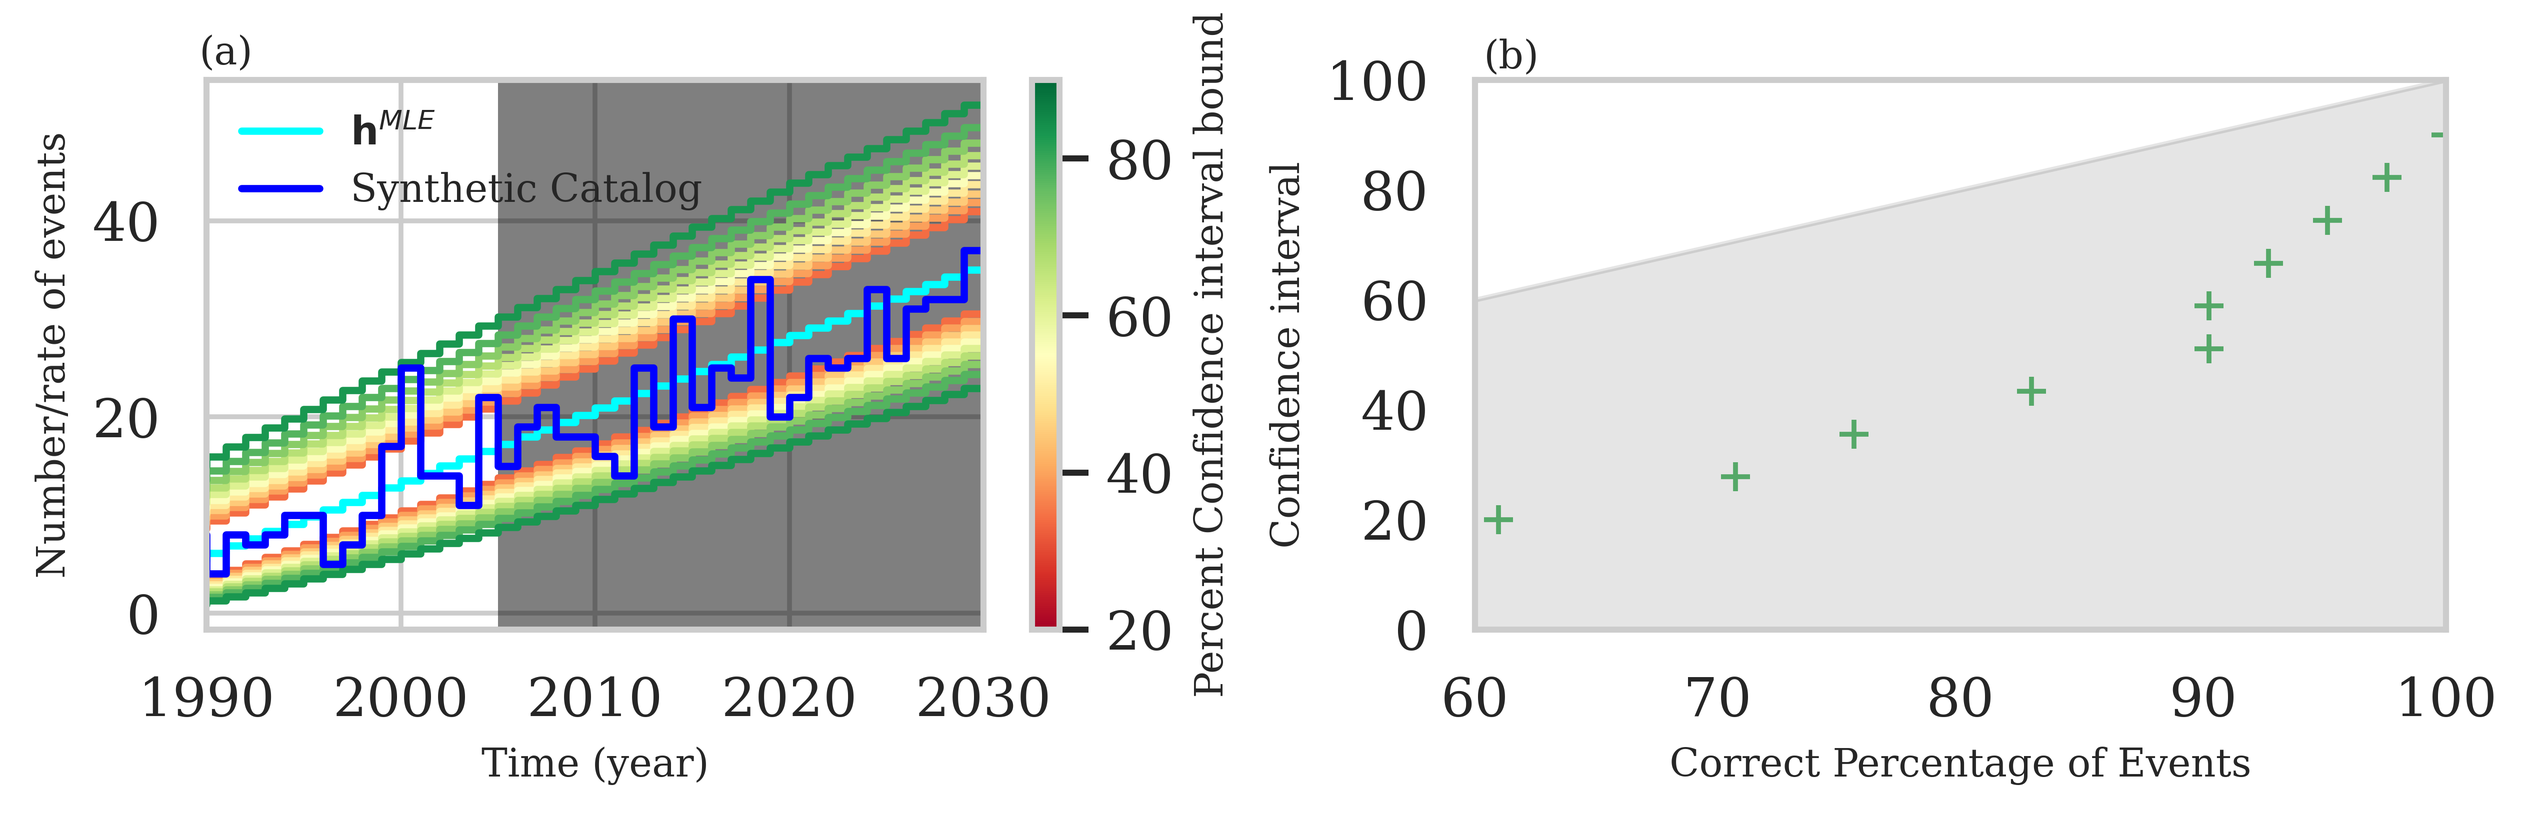
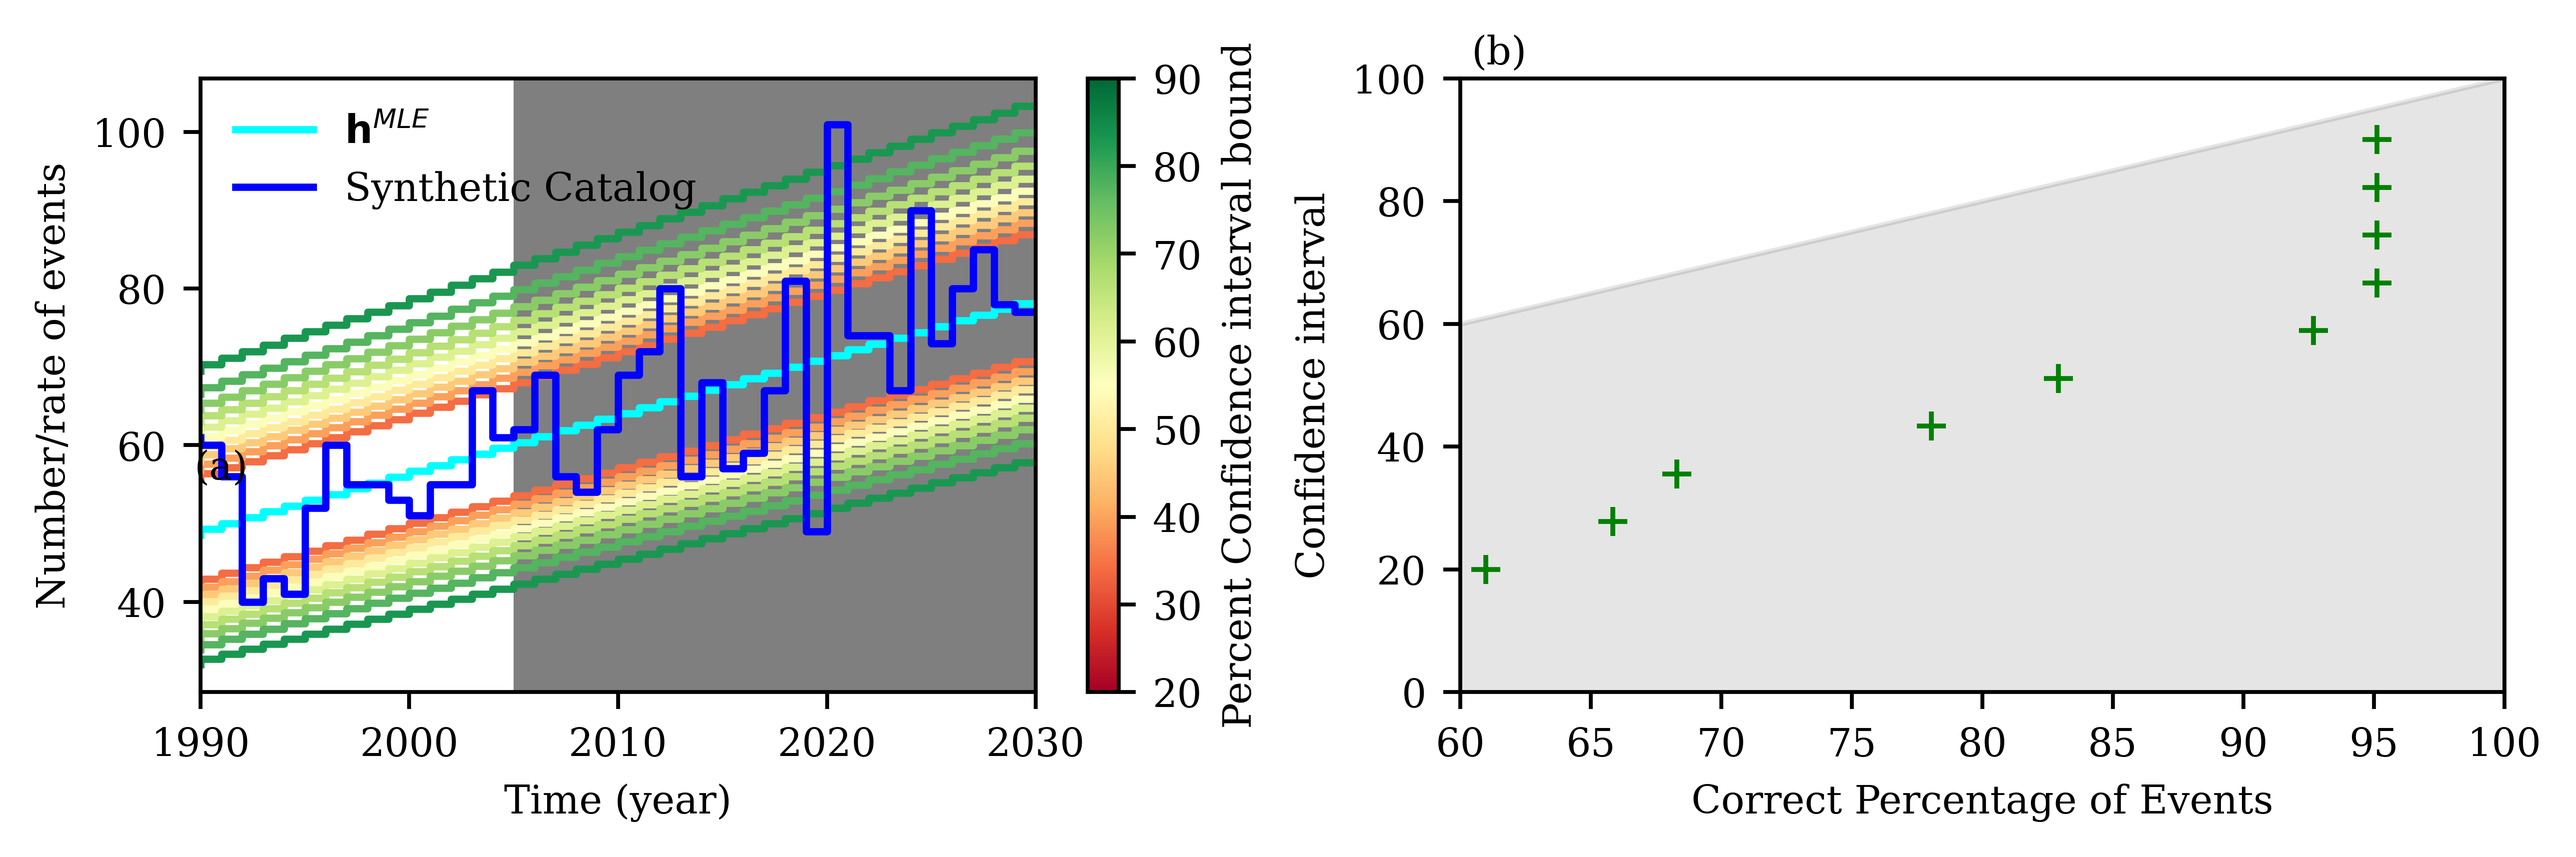
Sync

diff --git a/Example2.py b/Example2.py
@@ -32,7 +32,7 @@ N_train=15 # Number of years to be considered in the training set
 Timevector=np.linspace(Tmin,Tmax,Tmax-Tmin+1)
 TimeTrain=Timevector[0:N_train]
 
-True_values=np.array([-1487.5,.75]) # True Values of R0 and a [R0,a]
+True_values=np.array([-1442.5,.75]) # True Values of R0 and a [R0,a]
 True_rate=True_values[0]+True_values[1]*Timevector
 Realization=np.random.poisson(lam=True_rate,size=np.size(True_rate))
 
@@ -126,6 +126,7 @@ ax.set_xlabel(r"Time (year)",fontname=custom_font,size=FontSize)
 ax.set_ylabel(r"Number/rate of events",fontname=custom_font,size=FontSize)
 plt.axvspan(Timevector[N_train],Tmax, color='black', alpha=0.5, lw=0)
 ax.set_xlim(left=Tmin,right=Tmax)
+ax.set_ylim(top=120)
 leg=ax.legend(frameon=False,fontsize=FontSize)
 for lh in leg.legendHandles: 
     lh.set_alpha(1)

diff --git a/Example3.py b/Example3.py
@@ -36,7 +36,7 @@ Timevector=np.linspace(Tmin,Tmax,(Tmax-Tmin)*12)
 Time_year=np.linspace(Tmin,Tmax,(Tmax-Tmin))
 TimeTrain=Timevector[0:N_train]
 
-True_values=np.array([-119.375,.75/12]) # True Values of R0 and a [R0,a]
+True_values=np.array([-1442.5/12,.75/12]) # True Values of R0 and a [R0,a]
 True_rate=True_values[0]+True_values[1]*Timevector
 Realization=np.random.poisson(lam=True_rate,size=np.size(True_rate))
 # For monthly data, to be able to see better, we aggerate data each year

diff --git a/UQ_QualityPlotForExamples.py b/UQ_QualityPlotForExamples.py
@@ -37,7 +37,7 @@ ax.plot(CorrectPercent_yearly,Conflevels_yearly,'g+',label='Yearly analysis')
 
 ax.set_xlabel(r"Correct Percentage of Events",fontname=custom_font,size=FontSize)
 ax.set_ylabel(r"Confidence interval",fontname=custom_font,size=FontSize)
-ax.set_xlim(left=45,right=101)
+ax.set_xlim(left=45,right=100)
 ax.set_ylim(bottom=0,top=100)
 ax.legend(frameon=False,fontsize=FontSize)
 plt.tight_layout()
